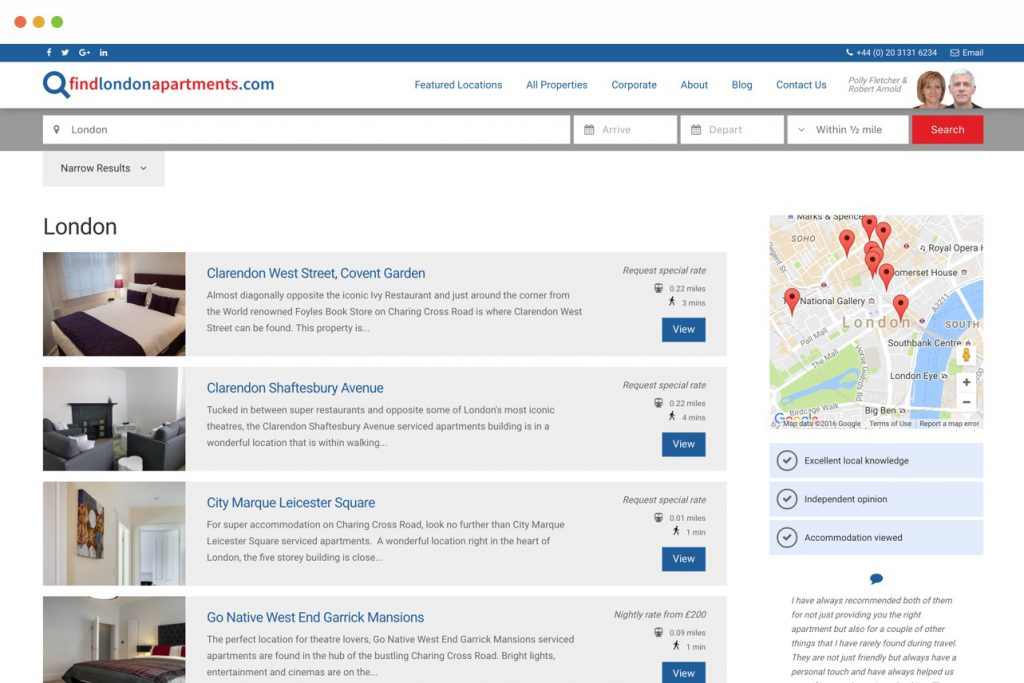
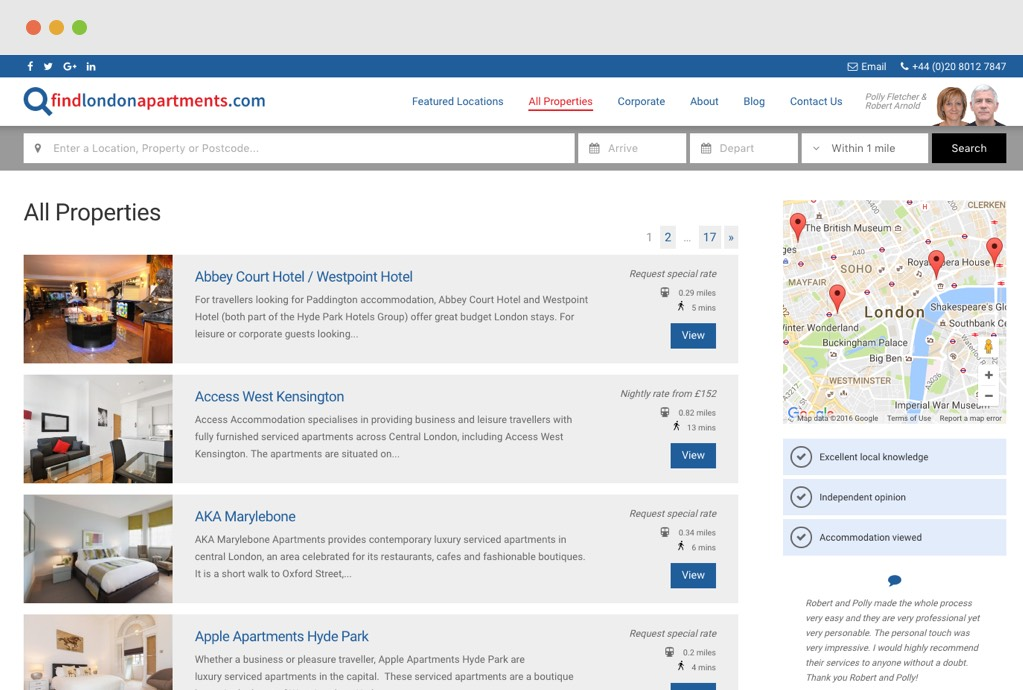
hh/fla content and images.

diff --git a/_sass/pages/_single-work.scss b/_sass/pages/_single-work.scss
@@ -26,15 +26,13 @@
 	}
 
 	p {
-		font-size: 1.5rem;
+		font-size: 1.4rem;
+		font-weight: bold;
+		text-transform: uppercase;
 	}
 
-	span:after {
-		content: ',';
-	}
-
-	span:last-child:after {
-		content: '';
+	span {
+		margin-right: 15px;
 	}
 }
 

diff --git a/_works/london-apartments.md b/_works/london-apartments.md
@@ -1,10 +1,23 @@
 ---
 title: London Apartments
 date: 2016-08-01 00:00:00 Z
-link: http://londonapartments.com
+link: http://findlondonapartments.com
 thumbnail: fla-thumb.jpg
+images:
+- fla-full.jpg
 categories:
 - WordPress
 - Bespoke
 layout: works-single
 ---
+Robert & Polly came to us requesting an update to their apartment booking service in London. They wanted to give it a fresh look and provide the user with a better experience to increase conversion rate. 
+
+I rebuilt the search engine the site was running off. Using Latitude and Longitude values with Google Maps to find key areas in London and provide appropriate results. 
+
+To enhance the search, an advanced filter was built for the properties which allowed the user to limit the results returned and find the ideal property for them as well as collect data for Robert & Polly about the stay.
+
+Property pages were built to provide details to the user, as well as near by locations such as hospitals and tubes (both pulled via Google Maps API).
+
+The design was created by a colleague at [Adtrak](http://adtrak.co.uk) to implement the property location search.
+
+After everything was built and tested, we included some rich meta elements to provide better search results in Google. Then the site was cached to reduce load on the database from multiple requests.

diff --git a/_works/crohnstracker.md b/_works/crohnstracker.md
@@ -1,19 +1,18 @@
 ---
 title: Crohn's Tracker
 date: 2014-10-12 00:00:00 Z
-link: 
+link: https://invis.io/RT85XM35F
 thumbnail: crohnstracker-thumb.jpg
 categories:
 - Laravel
 - Bespoke
+- Ember.js
 layout: works-single
 ---
-Crohn's Tracker started as a passion project for myself and later became my final dissertation project. 
+Crohn's Tracker started as a passion project for myself and later became my  dissertation project at University. 
 
 Living with Crohn's Disease can be hard and at times taxing. I wanted to create a community which would be able to help each other. The app allowed a user to track their symptoms, food eaten, medication and appointments. They could also connect with others who shared similar issues.
 
 I built the project on a combination of [Ember](http://emberjs.com/) and [Laravel](https://laravel.com/) as an API. This allowed me to provide real-time interactions with the server.
 
 Although this was never released publically it was fun as a side project. 
-
-You can view the initial designs on InVision at [https://invis.io/RT85XM35F](https://invis.io/RT85XM35F)

diff --git a/_works/hole-hearted.md b/_works/hole-hearted.md
@@ -8,6 +8,14 @@ images:
 - hh-full.jpg
 categories:
 - WordPress
+- WooCommerce
 - Ecommerce
 layout: works-single
 ---
+Hole Hearted were looking to move from their Big Cartel platform and provide a more professional image with a new site. They wanted their new site to promote the products at the forefront and show their character and soul. 
+
+The site was built on [WordPress](http://wordpress.org) and [WooCommerce](http://woocommerce.com). They were chosen to remove as much expense from the site as possible for the client. 
+
+The main focus of the site was the products and how their customers loved them. Big promotional images were put on the home page, a lookbook section was created to show location shoots, and the client got some proffesional studio shoots so that the images were consistant and of a high standard to really push the brand.
+
+Overall the client has seen an increase in sales and with some SEO work will see more increases later down the line.
